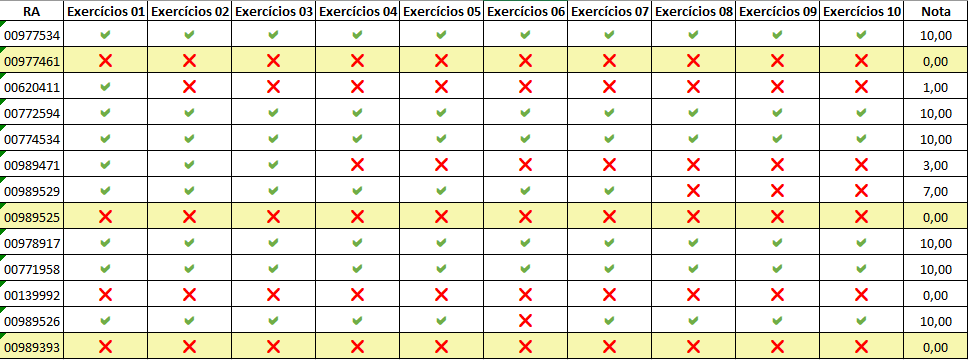
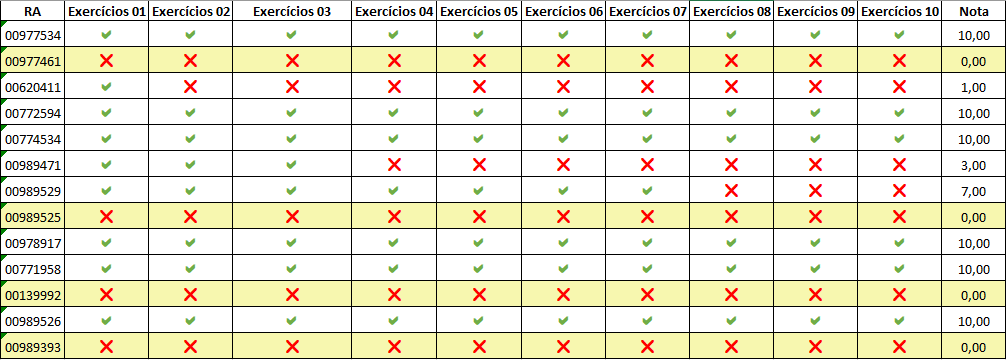
Trabalho

diff --git a/README.md b/README.md
@@ -53,6 +53,10 @@ Objetivos específicos
 
 ![Notas Atividade JS](imagens/NotasAtividade02JS.png)
 
+# Média Final
+MF = (ATV1*0.2)+(ATV2*0.3)+(TRAB*0.5)
+
+![Notas Atividade JS](imagens/NotasFinal.png)
 
 ## Materiais de Aula
 
